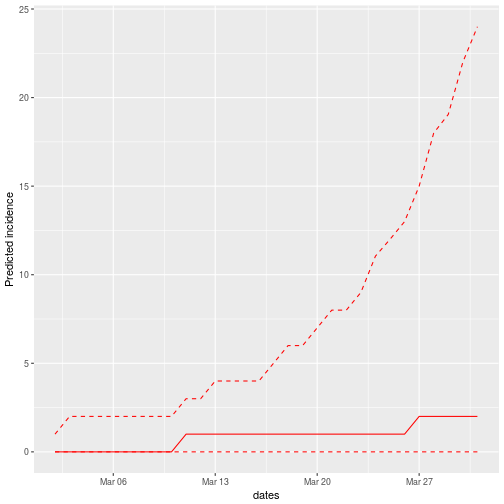
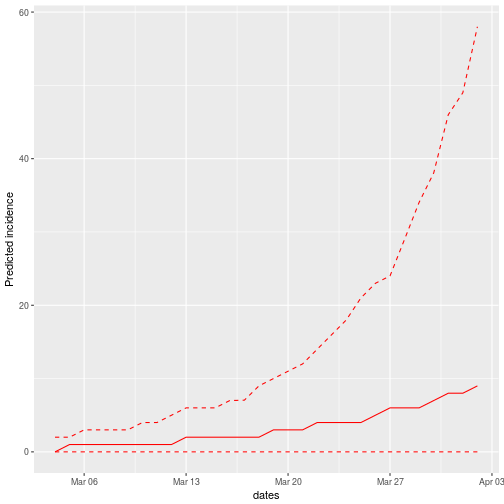
adding full example to readme

diff --git a/README.md b/README.md
@@ -68,17 +68,9 @@ following symptom onset dates:
 
 
 ```r
-
 onset <- as.Date(c("2017-02-04", "2017-02-12", "2017-02-15",
-                   "2017-02-23", "2017-03-01", "2017-03-01"
+                   "2017-02-23", "2017-03-01", "2017-03-01",
 		   "2017-03-02", "2017-03-03", "2017-03-03"))		 
-```
-
-```
-## Error: <text>:4:20: unexpected string constant
-## 3:                    "2017-02-23", "2017-03-01", "2017-03-01"
-## 4:                    "2017-03-02"
-##                       ^
 ```
 
 We compute the daily incidence using the package
@@ -93,13 +85,13 @@ i
 
 ```
 ## <incidence object>
-## [6 cases from days 2017-02-04 to 2017-03-01]
+## [9 cases from days 2017-02-04 to 2017-03-03]
 ## 
-## $counts: matrix with 26 rows and 1 columns
-## $n: 6 cases in total
-## $dates: 26 dates marking the left-side of bins
+## $counts: matrix with 28 rows and 1 columns
+## $n: 9 cases in total
+## $dates: 28 dates marking the left-side of bins
 ## $interval: 1 day
-## $timespan: 26 days
+## $timespan: 28 days
 ```
 
 ```r
@@ -121,10 +113,10 @@ i
 
 ```
 ## <incidence object>
-## [6 cases from days 2017-02-04 to 2017-03-21]
+## [9 cases from days 2017-02-04 to 2017-03-21]
 ## 
 ## $counts: matrix with 46 rows and 1 columns
-## $n: 6 cases in total
+## $n: 9 cases in total
 ## $dates: 46 dates marking the left-side of bins
 ## $interval: 1 day
 ## $timespan: 46 days
@@ -167,7 +159,7 @@ res
 ##  // class: earlyR, list
 ## 
 ##  // Maximum-Likelihood estimate of R ($R_ml):
-## [1] 0.9109109
+## [1] 1.021021
 ## 
 ## 
 ##  // $lambda:
@@ -224,7 +216,7 @@ summary(R_val)
 
 ```
 ##    Min. 1st Qu.  Median    Mean 3rd Qu.    Max. 
-##  0.2002  0.7558  1.0110  1.0884  1.3714  3.0531
+##  0.3353  0.8859  1.1061  1.1625  1.4114  2.7177
 ```
 
 ```r
@@ -233,7 +225,7 @@ quantile(R_val)
 
 ```
 ##        0%       25%       50%       75%      100% 
-## 0.2002002 0.7557558 1.0110110 1.3713714 3.0530531
+## 0.3353353 0.8858859 1.1061061 1.4114114 2.7177177
 ```
 
 ```r
@@ -242,7 +234,7 @@ quantile(R_val, c(0.025, 0.975))
 
 ```
 ##      2.5%     97.5% 
-## 0.4052803 2.1074825
+## 0.5302803 1.9921171
 ```
 
 ```r
@@ -310,7 +302,7 @@ mean(future_i) # average incidence / day
 ```
 
 ```
-## [1] 0.0671
+## [1] 0.1619
 ```
 
 ```r
@@ -333,7 +325,7 @@ summary(predicted_n)
 
 ```
 ##    Min. 1st Qu.  Median    Mean 3rd Qu.    Max. 
-##   0.000   0.000   0.000   2.013   3.000  43.000
+##   0.000   1.000   3.000   4.857   7.000  50.000
 ```
 
 ```r
@@ -364,21 +356,21 @@ alt_future_i
 ## 
 ##  // first rows/columns:
 ##       [,1] [,2] [,3] [,4] [,5] [,6]
-## 17227    0    1    0    0    1    0
-## 17228    1    1    0    0    0    0
-## 17229    0    0    2    1    0    1
-## 17230    0    0    0    3    0    1
+## 17229    0    0    1    0    1    1
+## 17230    0    0    1    0    1    0
+## 17231    1    1    1    0    1    1
+## 17232    1    1    1    0    4    1
 ##  .
 ##  .
 ##  .
 ## 
 ##  // dates:
-##  [1] "2017-03-02" "2017-03-03" "2017-03-04" "2017-03-05" "2017-03-06"
-##  [6] "2017-03-07" "2017-03-08" "2017-03-09" "2017-03-10" "2017-03-11"
-## [11] "2017-03-12" "2017-03-13" "2017-03-14" "2017-03-15" "2017-03-16"
-## [16] "2017-03-17" "2017-03-18" "2017-03-19" "2017-03-20" "2017-03-21"
-## [21] "2017-03-22" "2017-03-23" "2017-03-24" "2017-03-25" "2017-03-26"
-## [26] "2017-03-27" "2017-03-28" "2017-03-29" "2017-03-30" "2017-03-31"
+##  [1] "2017-03-04" "2017-03-05" "2017-03-06" "2017-03-07" "2017-03-08"
+##  [6] "2017-03-09" "2017-03-10" "2017-03-11" "2017-03-12" "2017-03-13"
+## [11] "2017-03-14" "2017-03-15" "2017-03-16" "2017-03-17" "2017-03-18"
+## [16] "2017-03-19" "2017-03-20" "2017-03-21" "2017-03-22" "2017-03-23"
+## [21] "2017-03-24" "2017-03-25" "2017-03-26" "2017-03-27" "2017-03-28"
+## [26] "2017-03-29" "2017-03-30" "2017-03-31" "2017-04-01" "2017-04-02"
 ```
 
 ```r
@@ -386,7 +378,7 @@ mean(alt_future_i)
 ```
 
 ```
-## [1] 1.875367
+## [1] 4.968767
 ```
 
 ```r
@@ -396,13 +388,23 @@ plot(alt_future_i)
 ![plot of chunk alternative](figure/alternative-1.png)
 
 ```r
+## alternative plot
+col <- "#cc66991a"
+matplot(alt_future_i, type = "l", col = col, lty = 1, lwd = 5,
+        xlab = "Day from today",
+	ylab = "Projected incidence")
+```
+
+![plot of chunk alternative](figure/alternative-2.png)
+
+```r
 alt_predicted_n <- colSums(alt_future_i)
 summary(alt_predicted_n)
 ```
 
 ```
 ##    Min. 1st Qu.  Median    Mean 3rd Qu.    Max. 
-##    0.00   14.00   29.50   56.26   69.00  697.00
+##    3.00   51.75  102.00  149.06  196.00  891.00
 ```
 
 ```r
@@ -411,7 +413,8 @@ hist(alt_predicted_n, col = "darkred", border = "white",
      xlab = "Total number of new cases")
 ```
 
-![plot of chunk alternative](figure/alternative-2.png)
+![plot of chunk alternative](figure/alternative-3.png)
+
 
 
 
